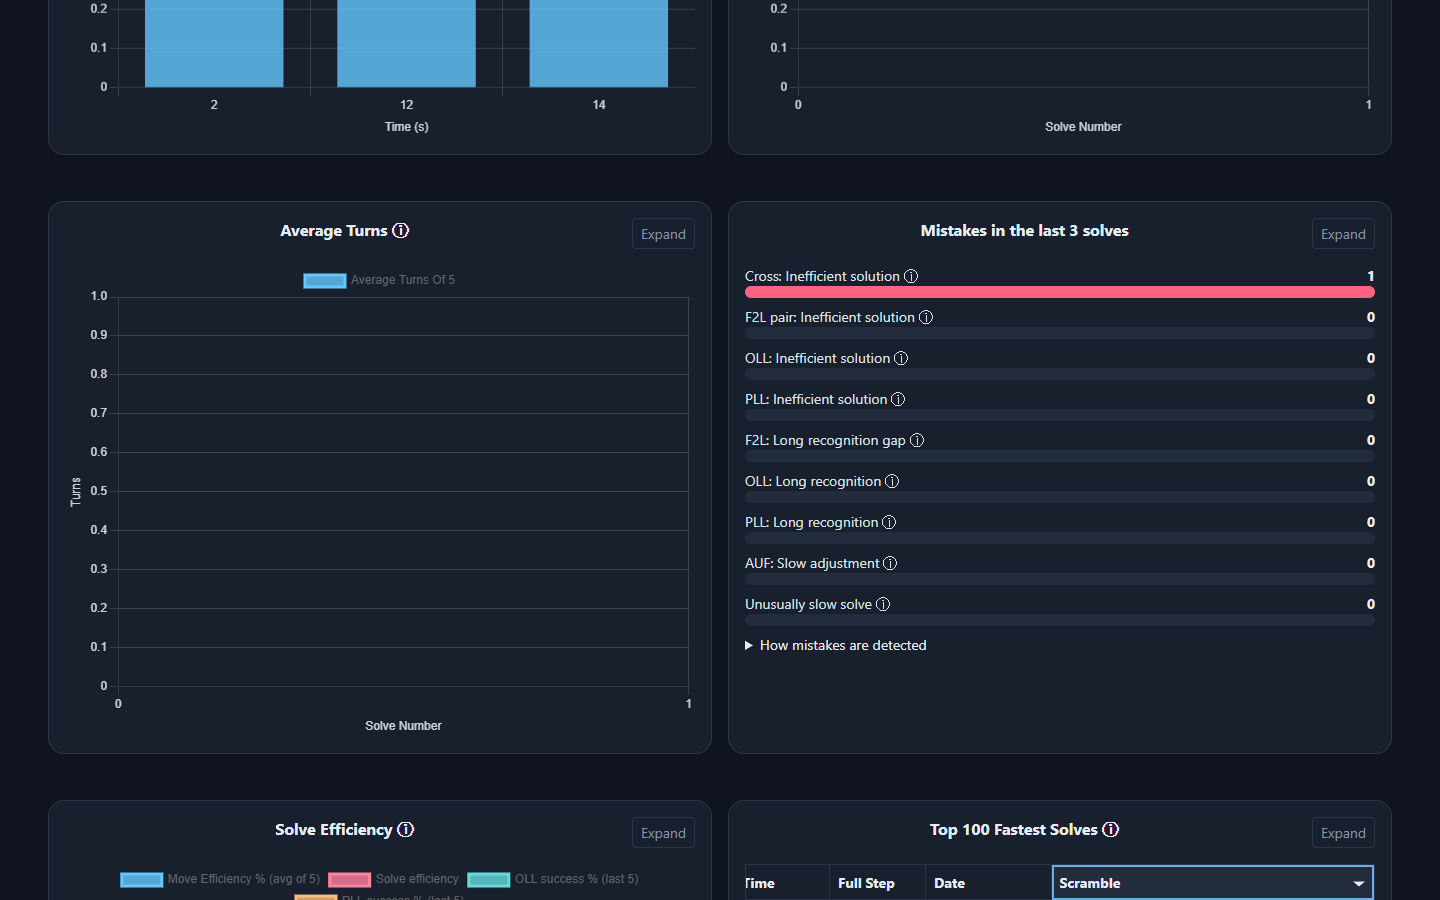
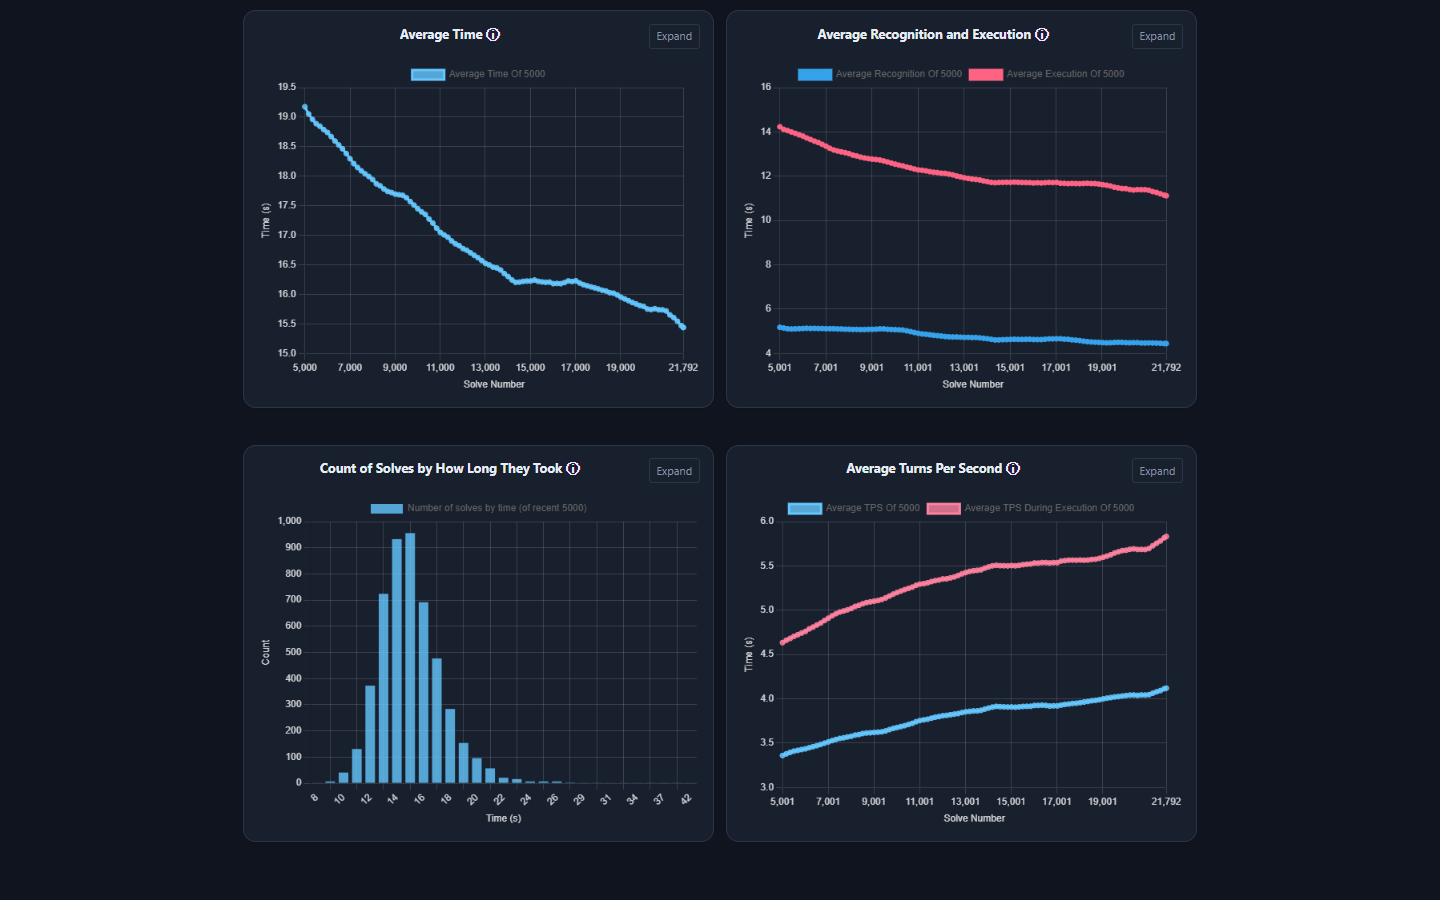
Release CuberPlus 1.1.10: refine homepage previews
Replace Timer and Analyzer previews with representative full-step and full-data views, update image descriptions, and document screenshot requirements.

Copilot-Session: 154eac54-9d14-4e09-ae3f-d3bedc0c9a56

diff --git a/src/Components/App.tsx b/src/Components/App.tsx
@@ -14,7 +14,7 @@ const tools = [
     category: 'Capture every turn',
     href: '/timer/',
     image: timerScreenshot,
-    alt: 'Timer showing a simulated solve in progress, a live 3D cube, and session statistics.',
+    alt: 'Timer showing a completed 14.40-second solve, all CFOP steps, a 3D cube, and session statistics.',
     description: 'Connect your smart cube to time every solve automatically. Follow live scrambles, track your personal bests, and replay every turn.',
     features: ['Automatic smart-cube timing', 'Move-by-move replays'],
     action: 'Open timer',
@@ -25,7 +25,7 @@ const tools = [
     category: 'Understand your solves',
     href: '/smartcubeanalyzer/',
     image: analyzerScreenshot,
-    alt: 'Smartcube Analyzer showing demo charts for solve times, recognition, and execution.',
+    alt: 'Smartcube Analyzer showing solve time, recognition and execution, solve distribution, and turns-per-second charts with 5,000-solve windows.',
     description: 'Turn your Cubeast or Acubemy exports into clear charts. Find patterns in your recognition, execution, and progress over time.',
     features: ['Solve-by-solve insights', 'Recognition & execution'],
     action: 'Open analyzer',

diff --git a/shared/navigation/index.tsx b/shared/navigation/index.tsx
@@ -1,6 +1,6 @@
 import { createContext, useContext, useEffect, type RefObject } from 'react';
 
-export const APP_VERSION = '1.1.9';
+export const APP_VERSION = '1.1.10';
 export { SettingsContext, SettingsProvider } from './settings';
 export type Tool = 'home' | 'timer' | 'smartcubeanalyzer' | 'scrambler' | 'database' | 'options';
 export const PageVisible = createContext(true);

diff --git a/AGENTS.md b/AGENTS.md
@@ -19,3 +19,23 @@ await context.addInitScript(() => localStorage.setItem('theme', 'dark'));
 Wait for `html[data-theme="dark"]` and for the tool to finish rendering before
 capturing. Do not overwrite a real user's saved theme preference. Tests may
 exercise other themes, but screenshots of these three tools must use Dark.
+
+## Homepage preview composition
+
+Keep homepage previews at 1440 x 900 and visually inspect the images before
+finishing. Refresh only the tools requested; preserve other approved previews.
+
+- **Timer:** Show a representative completed CFOP solve above 10 seconds.
+  Populate Cross, all four F2L pairs, OLL, and PLL with substantive, balanced
+  timings; do not use a fast simulated solve or an unfinished Cross-only view.
+  No "Simulated cube" text, daily-streak notifications, or PB overlays.
+- **Smartcube Analyzer:** Frame the first few charts at the top of the chart
+  area, not the upload controls or fastest-solves table. Load a full dataset
+  such as Dev Solves and verify at least 2,500 contributing solves after
+  filtering. Set the sliding window to at least 2,500 too, so windowed charts
+  meet the same requirement. Dismiss warnings, close menus, and wait for chart
+  computation and animations to finish.
+
+Do not generate these two previews from the small fixtures in
+`scripts/check-solve-workflows.mjs`. Its screenshot mode is only suitable for
+Scrambler and Database.
